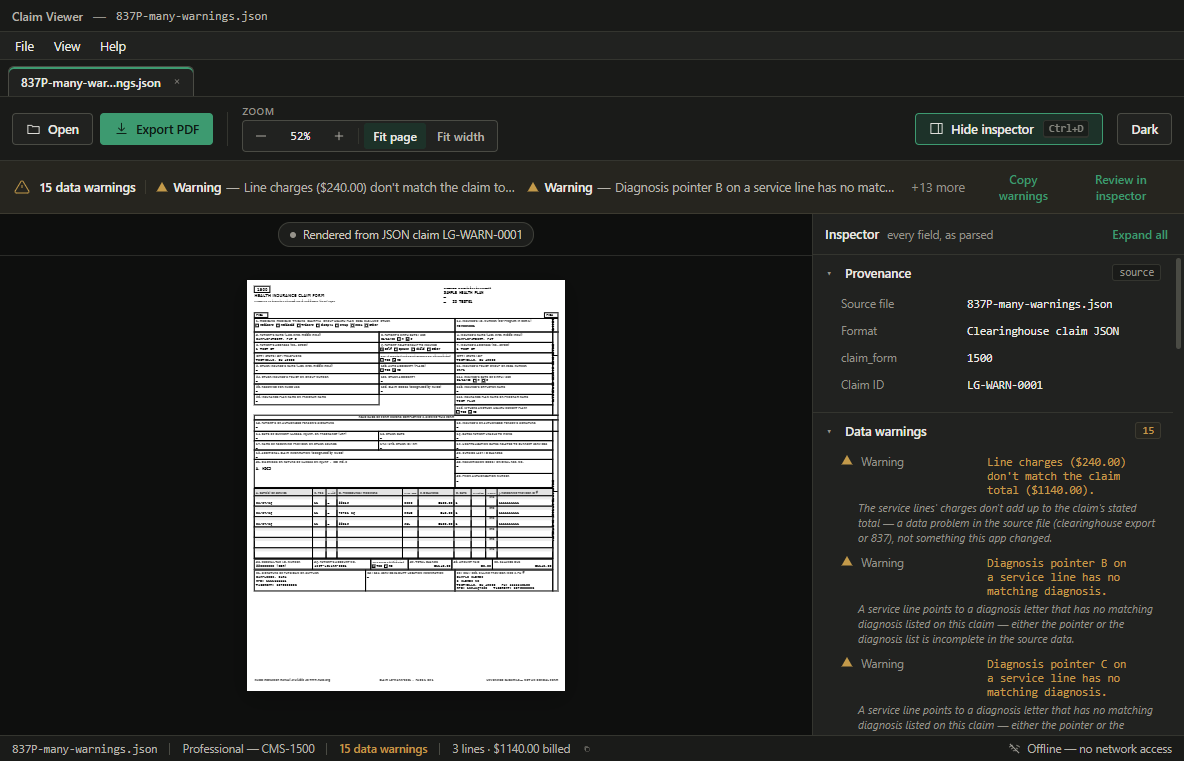
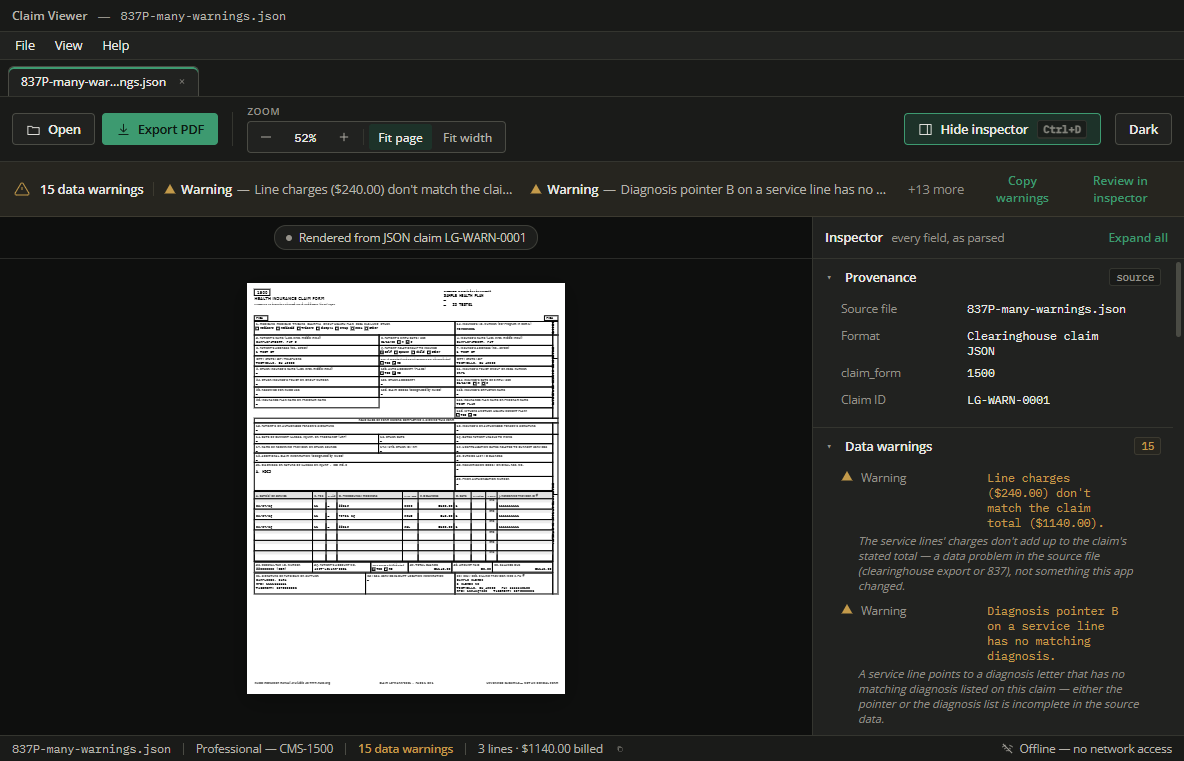
Build 1 sect 3d: bundle the real design fonts
Swaps the system-font stand-ins for the staged OFL families — Source Serif 4
(+italic), Open Sans, IBM Plex Mono — declared via @font-face and loaded only
as local relative files; nothing is fetched at runtime (the offline
kill-switch would block it and the CSP has no remote font-src).

Verified all five ship inside the packaged asar alongside the three DejaVu
PDF fonts (8 .ttf total) — the same class of bundling gap silently disabled
the PDF fonts once before. Screenshots regenerated since every text metric
changed.

diff --git a/src/renderer/style.css b/src/renderer/style.css
@@ -4,30 +4,67 @@
  * for the canonical color tokens this file mirrors as CSS custom
  * properties).
  *
- * FONTS: the design calls for Source Serif 4 / Open Sans / IBM Plex Mono
- * loaded from Google Fonts. This app is offline-only — electron/main.ts's
- * installOfflineKillSwitch blocks every non-file/blob/data request, so a
- * Google Fonts <link> would simply fail to load (and the renderer's CSP has
- * no font-src for a remote host either). No font files are bundled in this
- * repo/checkout to embed as @font-face instead (see task notes), so this
- * file uses a tasteful SYSTEM-FONT STACK standing in for each of the three
- * design fonts:
- *   --font-serif (Source Serif 4 stand-in) -> Georgia/Cambria serif, used
- *     only for the app identity title and the welcome-screen scripture
- *     callout, same as the design's usage.
- *   --font-sans (Open Sans stand-in)       -> the OS UI font stack.
- *   --font-mono (IBM Plex Mono stand-in)   -> Consolas/Cascadia Mono, the
- *     closest common Windows monospace grotesque, for codes/dollars/IDs.
- * If font files are ever bundled under src/renderer/assets, swap these
- * three var() values for @font-face families — nothing else needs to
- * change, every rule below already reads through these variables.
+ * FONTS: the design calls for Source Serif 4 / Open Sans / IBM Plex Mono.
+ * This app is offline-only — electron/main.ts's installOfflineKillSwitch
+ * blocks every non-file/blob/data request, and the CSP (both the meta tag in
+ * index.html and the authoritative one in main.ts) has no font-src for a
+ * remote host — so these are never loaded from Google Fonts or any other
+ * CDN. Instead the actual font files are bundled under
+ * src/renderer/assets/fonts/ (SIL OFL licensed; see SOURCES.txt and the
+ * per-family OFL.txt alongside them) and declared below via @font-face,
+ * loaded only from 'self' as local relative files. Vite emits them as
+ * hashed assets into dist/renderer/assets/ on build, and electron-builder's
+ * `files` list already includes every file under dist/renderer, so they
+ * ship inside the asar like any other renderer asset — no extra packaging
+ * step needed.
+ * Source Serif 4 and Open Sans ship as variable fonts (single file covering
+ * a weight range); IBM Plex Mono ships as two static weights (Regular 400,
+ * Medium 500), which is all this stylesheet ever asks for. Each family's
+ * system stack from before remains as the CSS fallback list after the
+ * bundled name, in case a font file ever fails to load.
+ *   --font-serif (Source Serif 4) -> used only for the app identity title
+ *     and the welcome-screen scripture callout, same as the design's usage.
+ *   --font-sans (Open Sans)       -> the general UI font.
+ *   --font-mono (IBM Plex Mono)   -> codes/dollars/IDs.
  */
 
 @font-face {
-  /* Placeholder for a future bundled Source Serif 4 — intentionally
-     unused (see file header) until an actual font file is bundled. */
-  font-family: 'SourceSerif4Local';
-  src: local('Source Serif 4');
+  font-family: 'Source Serif 4';
+  src: url('./assets/fonts/source-serif-4/SourceSerif4-VF.ttf') format('truetype-variations');
+  font-weight: 200 900;
+  font-style: normal;
+  font-display: swap;
+}
+
+@font-face {
+  font-family: 'Source Serif 4';
+  src: url('./assets/fonts/source-serif-4/SourceSerif4-Italic-VF.ttf') format('truetype-variations');
+  font-weight: 200 900;
+  font-style: italic;
+  font-display: swap;
+}
+
+@font-face {
+  font-family: 'Open Sans';
+  src: url('./assets/fonts/open-sans/OpenSans-VF.ttf') format('truetype-variations');
+  font-weight: 300 800;
+  font-style: normal;
+  font-display: swap;
+}
+
+@font-face {
+  font-family: 'IBM Plex Mono';
+  src: url('./assets/fonts/ibm-plex-mono/IBMPlexMono-Regular.ttf') format('truetype');
+  font-weight: 400;
+  font-style: normal;
+  font-display: swap;
+}
+
+@font-face {
+  font-family: 'IBM Plex Mono';
+  src: url('./assets/fonts/ibm-plex-mono/IBMPlexMono-Medium.ttf') format('truetype');
+  font-weight: 500;
+  font-style: normal;
   font-display: swap;
 }
 
@@ -45,9 +82,9 @@
 }
 
 :root {
-  --font-serif: Georgia, Cambria, 'Times New Roman', serif;
-  --font-sans: system-ui, -apple-system, 'Segoe UI', Roboto, sans-serif;
-  --font-mono: Consolas, 'Cascadia Mono', 'Cascadia Code', 'DejaVu Sans Mono', monospace;
+  --font-serif: 'Source Serif 4', Georgia, Cambria, 'Times New Roman', serif;
+  --font-sans: 'Open Sans', system-ui, -apple-system, 'Segoe UI', Roboto, sans-serif;
+  --font-mono: 'IBM Plex Mono', Consolas, 'Cascadia Mono', 'Cascadia Code', 'DejaVu Sans Mono', monospace;
 
   /* Light theme (default). */
   --bg-page: #e6e5e1;

diff --git a/src/renderer/index.html b/src/renderer/index.html
@@ -5,8 +5,9 @@
     <!--
       Defense-in-depth CSP (the authoritative copy is set in main via
       session.onHeadersReceived — see electron/main.ts installOfflineKillSwitch).
-      No Google Fonts / CDN links here — see style.css's top comment for why
-      this app uses a system-font stack instead of self-hosted font files.
+      No Google Fonts / CDN links here — the design fonts are bundled and
+      self-hosted via @font-face in style.css (see that file's top comment),
+      loaded only from 'self' as local relative files.
       No inline script/style beyond the 'unsafe-inline' allowance style.css's
       CSS variables need; every event listener is attached in main.ts, never
       via an inline on* attribute, so script-src 'self' is never violated.
